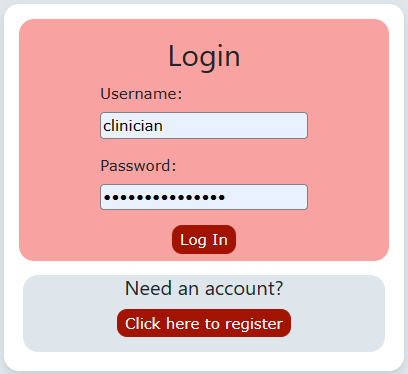
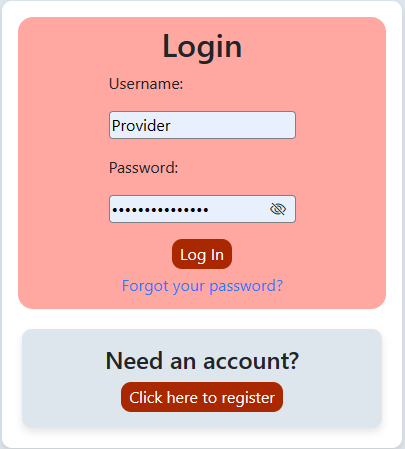
Add modals, show password, copy to clipboard info and images

diff --git a/Documentation/User.md b/Documentation/User.md
@@ -18,27 +18,54 @@
 
 **All preceding addresses will begin with `http://localhost:8000/` for this specific environment setup**
 
+
+&nbsp;
+&nbsp;
+&nbsp;
+
+---
+# General Instructions and Tips
+---
+## Info icons
+- Look for the info icons throughout the applike the one shown below:
+![Info Icon](<../Auxiliary Files/Images/User_Images/info-icon.png>)
+- You can click on these info icons if you need help or tips for how to use the application effectively. Once clicked, a dialogue box like the one below will show with added information.
+![Info Popup](<../Auxiliary Files/Images/User_Images/info-popup.png>)
+
+---
+&nbsp;
+&nbsp;
+&nbsp;
 # Provider Instructions
-## Registering for a Provider Account
+---
+## Account Registration:
+---
+### Registering for a Provider Account
 - This page is used to create new provider user profiles.
 - Address for this page: `/app/register/provider/`
 1. Navigate to the provider registration webpage. This can be done from the 
 login page by clicking "Click here to register" and then "Provider account".
 ![Account Type](<../Auxiliary Files/Images/User_Images/register_account_type.PNG>)
-2. Fill out the fields for username, email, password, and password verification.
+2. Fill out the fields for username, email, password, password verification, and for Institution Name.
 ![Register Account](<../Auxiliary Files/Images/User_Images/register_provider.PNG>)
-3. Select 'Submit'.
+Please note that you can reveal the password as you type it by clicking on the eye icon in the password field.
+![Register Show Password](<../Auxiliary Files/Images/User_Images/show_password.png>)
+
+
+1. Select 'Submit'.
    - **If you are redirected back to this page, either an invalid email was used, 
     the password was not strong enough, or the passwords did not match. Error 
     text in the page should inform you of the specifics.**
-3. If your provider account was successful in its creation, you will see this page.
+2. If your provider account was successful in its creation, you will see this page.
 ![Success](<../Auxiliary Files/Images/User_Images/successful_registration.PNG>)
 
-## Logging In (Clinician & Provider Profiles)
+### Logging In as a Provider
 - This page is used for logging into an already registered clinician  or provider profile.
 - Address for this page: `/accounts/login/`
 1. Fill out the fields with the username and password that you used when creating a profile.
 ![sign_in](<../Auxiliary Files/Images/User_Images/sign_in.PNG>)
+Please note that you can reveal the password as you type it by clicking on the eye icon in the password field.
+![Login Show Password](<../Auxiliary Files/Images/User_Images/sign_in_show_password.png>)
 2. Press the 'log in' button located underneath these fields.
 3. If you were successfully logged in, you will be redirected to the commitment
 dashboard (for clinician accounts) or course dashboard (for provider accounts).
@@ -46,7 +73,7 @@ dashboard (for clinician accounts) or course dashboard (for provider accounts).
 4. If you were not successful, you will be directed to enter a correct username and password.
 
 
-## Logging Out (Clinician & Provider Profiles)
+### Logging Out as a Provider
 - This button is used to log out the currently logged-in user.
 - Must be logged in.
 - Address for this page: `/accounts/logout/`
@@ -57,8 +84,10 @@ dashboard (for clinician accounts) or course dashboard (for provider accounts).
 ![logout_success.PNG](<../Auxiliary Files/Images/User_Images/logout_success.PNG>)
 4. If this was a mistake, you can log back in using the *Log In* button.
 
-
-## Navigating to the Course Dashboard (Provider Profile)
+---
+## Dashboard:
+---
+### Navigating to the Provider Dashboard
 - These instructions detail how to get back to the Course Dashboard that most 
 provider instructions will reference.
 - Must be logged-in.
@@ -70,21 +99,23 @@ at the top of the current page.
 ![Provider Dashboard](<../Auxiliary Files/Images/User_Images/provider_dashboard.png>)
 3. If you prefer, you can instead manually type the url `/app/dashboard` after the address discussed in [Opening the Application](#opening-the-application).
 
-
-## Creating a Course (Provider Profile)
+---
+## Courses:
+---
+### Creating a Course as a Provider
 - This page is used to create a course that you can then invite clinicians to join.
 - Must be logged-in.
 - Address for this page: `/app/course/create/`
 1. Click "Create Course" in the navigation bar at the top.
 ![Provider Dashboard](<../Auxiliary Files/Images/User_Images/provider_create_course.png>)
-2. Fill out the title and description of the course.
+2. Fill out the title and description of the course. Optionally, you can add a course identifier, a start date, and an end date.
 
    ![Provider Create Course](<../Auxiliary Files/Images/User_Images/create_course.png>)
 
 3. When you click submit, you will be taken to the course's view page.
 ![Provider Course View](<../Auxiliary Files/Images/User_Images/provider-course-view.png>)
 
-## Viewing a Course (Provider Profile)
+### Viewing a Created Course as a Provider
 - This page shows the details for a course.
 - Must be logged-in.
 - Address for this page: `/app/course/<Course id>/view/`
@@ -93,43 +124,51 @@ at the top of the current page.
 3. Click the link.
 ![Provider view course](<../Auxiliary Files/Images/User_Images/Provider_view_course.png>)
 
-## Inviting Clinicians to a Course via a link (Provider Profile)
+### Inviting Clinicians to Your Course as a Provider
 - This covers inviting clinicians to a course by sharing a link.
 - Must be logged-in.
 - Address for this page: `/app/course/<Course id>/view/`
 1. Navigate to the View Course page for the course.
 2. Locate the section with "Share this link to invite students"
 ![Share course link](<../Auxiliary Files/Images/User_Images/provider-share-course-link.png>)
-3. Copy that link in its entirety.
+3. Click on the "Copy to Clipboard" button, or manually copy the link.
 4. Distribute the link to the clinicians you want to invite to the course.
 5. When they go to the link, they will be prompted to log in and automatically
 join the course.
 
 # Clinician Instructions
+---
+## Account Creation:
+---
 
-  
-## Registering a Clinician Profile
+### Registering for a Clinician Account
 - This page is used to create new clinician user profiles.
 - Address for this page: `/app/register/clinician/`
 1. Navigate to the clinician registration webpage. This can be done from the 
 login page by clicking "Click here to register" and then "Clinician account".
 ![Account Type](<../Auxiliary Files/Images/User_Images/register_account_type.PNG>)
-2. Fill out the fields for username, email, password, and password verification.
-![Register Account](<../Auxiliary Files/Images/User_Images/register_account.PNG>)
+2. Fill out the required fields for username, email, password, and password verification. Optionally, you can put in your first and last name, as well as the institution you attend.
+![Register Account](<../Auxiliary Files/Images/User_Images/register_clinician.png>)
+Please note that you can reveal the password as you type it by clicking on the eye icon in the password field.
+![Register Show Password](<../Auxiliary Files/Images/User_Images/show_password.png>)
+
+
 3. Select 'Submit'.
    - **If you are redirected back to this page, either an invalid email was used, 
     the password was not strong enough, or the passwords did not match. Error 
     text in the page should inform you of the specifics.**
-3. If your clinician account was successful in its creation, you will see this page.
+4. If your clinician account was successful in its creation, you will see this page.
 ![Success](<../Auxiliary Files/Images/User_Images/successful_registration.PNG>)
 
 
 
-## Logging In (Clinician & Provider Profiles)
+### Logging In as a Clinician
 - This page is used for logging into an already registered clinician  or provider profile.
 - Address for this page: `/accounts/login/`
 1. Fill out the fields with the username and password that you used when creating a profile.
 ![sign_in](<../Auxiliary Files/Images/User_Images/sign_in.PNG>)
+Please note that you can reveal the password as you type it by clicking on the eye icon in the password field.
+![Login Show Password](<../Auxiliary Files/Images/User_Images/sign_in_show_password.png>)
 2. Press the 'log in' button located underneath these fields.
 3. If you were successfully logged in, you will be redirected to the commitment
 dashboard (for clinician accounts) or course dashboard (for provider accounts).
@@ -137,7 +176,7 @@ dashboard (for clinician accounts) or course dashboard (for provider accounts).
 4. If you were not successful, you will be directed to enter a correct username and password.
 
 
-## Logging Out (Clinician & Provider Profiles)
+### Logging Out as a Clinician
 - This button is used to log out the currently logged-in user.
 - Must be logged in.
 - Address for this page: `/accounts/logout/`
@@ -150,7 +189,10 @@ dashboard (for clinician accounts) or course dashboard (for provider accounts).
 4. If this was a mistake, you can log back in using the *Log In* button.
 
 
-## Navigating to the Commitment Dashboard (Clinician Profile)
+## Dashboard:
+---
+
+### Navigating to the Clinician Dashboard 
 - This button is used to navigate to the logged-in user's commitment dashboard.
 - Must be logged-in
 - Address for this page: `/app/dashboard/` or `/app/dashboard/clinician/`
@@ -162,8 +204,7 @@ dashboard (for clinician accounts) or course dashboard (for provider accounts).
 ![Clinician Dashboard](<../Auxiliary Files/Images/User_Images/finaldashboard.PNG>)
 
 
-
-## Creating A Commitment (Clinician Profile)
+### Creating A Commitment as a Clinician
 - This button is used to create a new commitment.
 - Must be logged in.
 - Address for this page: `/app/commitment/make/`
@@ -174,9 +215,69 @@ dashboard (for clinician accounts) or course dashboard (for provider accounts).
    and press the *Submit* button underneath the deadline field. 
 ![Commitment Create](<../Auxiliary Files/Images/User_Images/commitment_creation.PNG>)
 
+### Completing A Commitment (Clinician Profile)
+- This button is used to mark a commitment complete.
+- Must be logged-in.
+- Address for this page: `/app/dashboard/`
+1. Navigate to the dashboard.
+2. Locate a commitment in the *In-Progress* or *Past Due* boxes on the dashboard.
+3. Below the title of the commitment, click on the box that says *Complete*.
+![Complete Button](<../Auxiliary Files/Images/User_Images/commitment_complete_circled.PNG>)
+4. ![Complete Confirm Button](<../Auxiliary Files/Images/User_Images/commitment-complete-confirm.png>)
+4. The commitment should move from whichever box it was in, into the *Completed* box, 
+   and it will be marked as complete.
+![Completed Commitments](<../Auxiliary Files/Images/User_Images/commitment_complete.PNG>)
 
 
-## Viewing a Commitment from the Dashboard (Clinician Profile)
+### Deleting A Commitment (Clinician Profile)
+- This button is used to delete a commitment.
+- Must be logged-in.
+Address for this page: `/app/dashboard/`
+1. Navigate to the dashboard.
+2. Locate a commitment in the *In-Progress*, *Expired*, *Discontinued*, or *Complete* boxes on the dashboard.
+3. Open the edit view for the commitment by clicking on it.
+4. Below the commitment details, there should be a button titled *Delete*. Click that button.
+![Edit Button](<../Auxiliary Files/Images/User_Images/commitment_delete_circled.PNG>)
+1. This brings up a modal asking you to confirm. Click the *DELETE* button to confirm deletion.
+![Delete Confirm](<../Auxiliary Files/Images/User_Images/commitment_delete.PNG>)
+
+
+### Discontinuing a Commitment (Clinician Profile)
+- This button is used to mark a commitment as discontinued indefinitely but not
+completed.
+- Must be logged-in.
+- Address for this page: `/app/dashboard/`
+1. Navigate to the dashboard.
+2. Locate a commitment in the *In-Progress* or *Past-Due* boxes.
+3. Below the title of the commitment, click on the box that says *Discontinue*.
+![Discontinue Button](<../Auxiliary Files/Images/User_Images/commitment_discontinue_circled.PNG>)
+4. This brings up a modal asking you to confirm. Click the *Discontinue* button to confirm discontinuation.
+![Discontinue Confirm Button](<../Auxiliary Files/Images/User_Images/commitment-discontinue-confirm.png>)
+5. The commitment should move from whichever box it was in, into the *Discontinued* box,
+   and it will be marked as discontinued.
+![Discontinued](<../Auxiliary Files/Images/User_Images/commitment_discontinued.PNG>)
+6. If this action was a mistake, the commitment can be reopened from here.
+
+
+### Reopening Discontinued Commitments (Clinician Profile)
+- This button is used to reactivate a discontinued commitment.
+- Must be logged-in.
+- Address for this page: `/app/dashboard/`
+1. Navigate to the dashboard.
+2. Locate a commitment in the *Discontinued* box.
+3. At the bottom of the commitment, click on the box that says *Reopen*.
+![reopen discontinued](<../Auxiliary Files/Images/User_Images/discontinued_Reopen.png>)
+4. This brings up a modal asking you to confirm. Click the *Reopen* button to confirm.
+![reopen Confirm Button](<../Auxiliary Files/Images/User_Images/confirm-reopen.png>)
+
+
+5. The commitment should move from whichever box it was in, into the *In-Progress* box,
+   and it will be marked as in-progress.
+
+## Commitment Page:
+---
+
+### Navigate to a Commitment Page from the Dashboard as a Clinician
 - Must be logged in to navigate from your dashboard.
 - Address for this page: `/app/commitment/<Commitment ID Number>/view/`
 1. Locate the navigation bar and go to the commitment dashboard.
@@ -186,18 +287,7 @@ dashboard (for clinician accounts) or course dashboard (for provider accounts).
 ![Commitment View](<../Auxiliary Files/Images/User_Images/commitment_view.PNG>)
 4. This opens the commitment view page.
 
-## Sharing a Commitment page for viewing (Clinician Profile)
-- Note: Currently, since there is no domain name registered, the link will need
-to change `localhost:8000` to `<your ip address>:8000` to be viewable from 
-another machine.
-- Address for this page: `/app/commitment/<Commitment ID Number>/view/`
-1. View one of your owned commitments with the instructions above
-2. Copy and paste the URL in the browser.
-![View Link](<../Auxiliary Files/Images/User_Images/commitment_view_link.PNG>)
-3. Share with others. They will be able to see the details of the commitment but
-not alter it.
-
-## Editing A Commitment (Clinician Profile)
+### Editing A Commitment as a Clinician
 - This option is used to edit an existing commitment.
 - Must be logged-in.
 - Address for this page: `/app/dashboard/`
@@ -210,63 +300,21 @@ on the dashboard.
 ![Edit View](<../Auxiliary Files/Images/User_Images/commitment_edit_page.PNG>)
 5. Below the commitment edit details, press the submit button to save your changes.
 
+### Sharing a Commitment Page
+- Note: Currently, since there is no domain name registered, the link will need
+to change `localhost:8000` to `<your ip address>:8000` to be viewable from 
+another machine.
+- Address for this page: `/app/commitment/<Commitment ID Number>/view/`
+1. View one of your owned commitments with the instructions above
+2. Copy and paste the URL in the browser.
+![View Link](<../Auxiliary Files/Images/User_Images/commitment_view_link.PNG>)
+1. Share with others. They will be able to see the details of the commitment but
+not alter it.
 
-## Completing A Commitment (Clinician Profile)
-- This button is used to mark a commitment complete.
-- Must be logged-in.
-- Address for this page: `/app/dashboard/`
-1. Navigate to the dashboard.
-2. Locate a commitment in the *In-Progress* or *Past Due* boxes on the dashboard.
-3. Below the title of the commitment, click on the box that says *Complete*.
-![Complete Button](<../Auxiliary Files/Images/User_Images/commitment_complete_circled.PNG>)
-4. The commitment should move from whichever box it was in, into the *Completed* box, 
-   and it will be marked as complete.
-![Completed Commitments](<../Auxiliary Files/Images/User_Images/commitment_complete.PNG>)
-
-
-## Deleting A Commitment (Clinician Profile)
-- This button is used to delete a commitment.
-- Must be logged-in.
-Address for this page: `/app/dashboard/`
-1. Navigate to the dashboard.
-2. Locate a commitment in the *In-Progress*, *Expired*, *Discontinued*, or *Complete* boxes on the dashboard.
-3. Open the edit view for the commitment by clicking on it.
-4. Below the commitment details, there should be a button titled *Delete*. Click that button.
-![Edit Button](<../Auxiliary Files/Images/User_Images/commitment_delete_circled.PNG>)
-5. This will bring you to a page that asks if you are sure you want to delete. You will press
-   the delete button located under this text titled *Delete*.
-![Delete Confirm](<../Auxiliary Files/Images/User_Images/commitment_delete.PNG>)
-
-
-
-## Discontinuing a Commitment (Clinician Profile)
-- This button is used to mark a commitment as discontinued indefinitely but not
-completed.
-- Must be logged-in.
-- Address for this page: `/app/dashboard/`
-1. Navigate to the dashboard.
-2. Locate a commitment in the *In-Progress* or *Past-Due* boxes.
-3. Below the title of the commitment, click on the box that says *Discontinue*.
-![Discontinue Button](<../Auxiliary Files/Images/User_Images/commitment_discontinue_circled.PNG>)
-4. The commitment should move from whichever box it was in, into the *Discontinued* box,
-   and it will be marked as discontinued.
-![Discontinue Button](<../Auxiliary Files/Images/User_Images/commitment_discontinued.PNG>)
-5. If this action was a mistake, the commitment can be reopened from here.
-
-
-## Reopening Discontinued Commitments (Clinician Profile)
-- This button is used to reactivate a discontinued commitment.
-- Must be logged-in.
-- Address for this page: `/app/dashboard/`
-1. Navigate to the dashboard.
-2. Locate a commitment in the *Discontinued* box.
-3. At the bottom of the commitment, click on the box that says *Reopen*.
-![reopen discontinued](<../Auxiliary Files/Images/User_Images/discontinued_Reopen.png>)
-
-4. The commitment should move from whichever box it was in, into the *In-Progress* box,
-   and it will be marked as in-progress.
-
-## Joining a Course (Clinician Profile)
+---
+## Courses:
+---
+### Joining a Course (Clinician Profile)
 - This procedure is used to join a course created by a provider.
 - Must be logged in.
 - **If running the development server or Apache without SSL, change `https` to `http` in the links.**
@@ -276,7 +324,7 @@ completed.
 4. If prompted, log in.
 5. You will automatically be enrolled in the course and be taken to that course's page.
 
-## Viewing a Course (Clinician Profile)
+### Viewing a Course (Clinician Profile)
 - This page displays the details of a course you are enrolled in.
 - Must be logged in.
 - Must be a member of the course.
@@ -287,7 +335,7 @@ completed.
 3. Clink the link with the name of the course you want to view. This will take you to the course page.
 ![Course View Clinician](<../Auxiliary Files/Images/User_Images/CourseView_Clinican.png>)
 
-## Associating a Commitment with a Course (Clinician Profile)
+### Associating a Commitment with a Course (Clinician Profile)
 - Commitments may be optionally associated with a course.
 - Must be logged in.
 - Must be a member of the course.
@@ -300,7 +348,7 @@ the respective page depending on whether your commitment already exists.
 4. Complete the make/edit process for a commitment as usual.
 ![Associate commitment](<../Auxiliary Files/Images/User_Images/Associate_commitment_with_course.png>)
 
-## Disassociating a Commitment with a Course (Clinician profile)
+### Disassociating a Commitment with a Course (Clinician profile)
 - If a commitment is associated in error, this can be reversed.
 - Must be logged in.
 - Must be a member of the course to reassociate.
